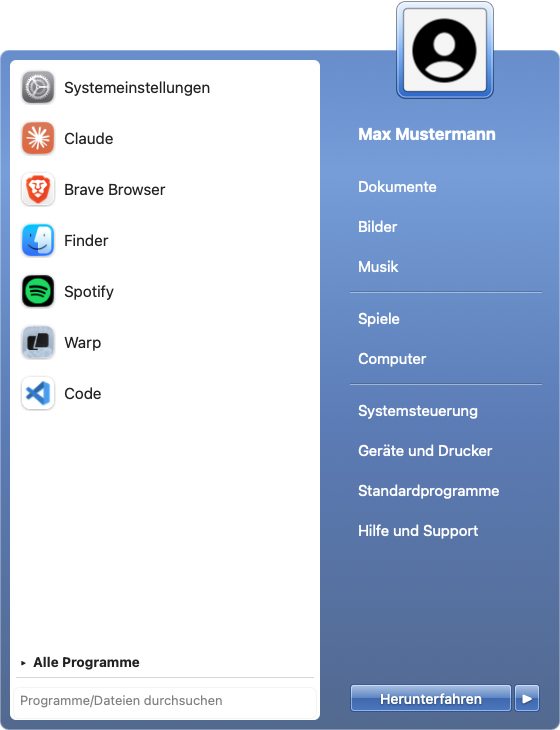
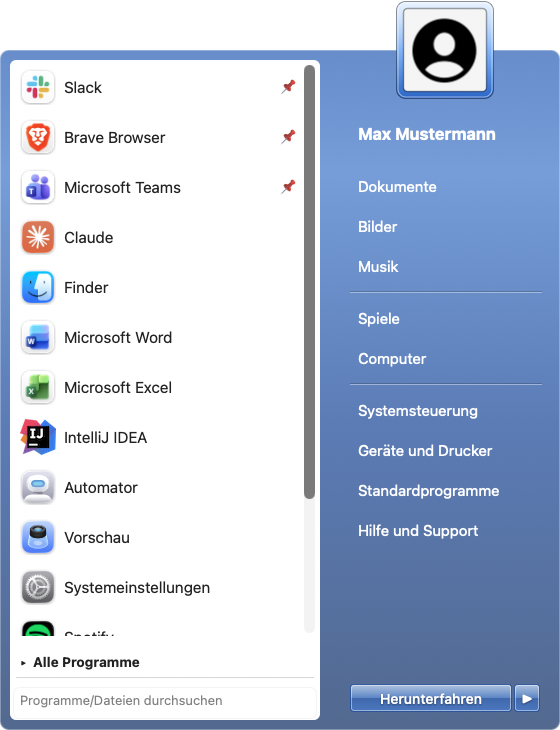
README neu geschrieben mit aktuellen, anonymisierten Screenshots
Vollständige Funktionsübersicht (Taskleiste, Gruppierung, Aero-Peek, Tray,
Jump-Lists, Startmenü-Stile, Einstellungs-Tabs, Hotkeys, Drag&Drop) plus
neue Screenshots: Taskleiste, Startmenü (Akzent + Aero), Einstellfenster.

diff --git a/README.md b/README.md
@@ -2,85 +2,85 @@
 
 Ein nativer **Dock-Ersatz für macOS** im Stil der Windows-7-Taskleiste — geschrieben in
 Swift/AppKit, ohne externe Abhängigkeiten. Aero-Glas-Optik, animierter Start-Orb,
-Zweispalten-Startmenü, Fenstervorschau (Aero Peek), Platz-Reservierung und ein System-Tray.
+Zweispalten-Startmenü, Fenstervorschau (Aero Peek), Fenstergruppierung, Platz-Reservierung,
+System-Tray und vieles mehr.
 
 ![Taskleiste](docs/taskbar.png)
 
 <p align="center">
-  <img src="docs/startmenu.png" alt="Startmenü" width="320">
+  <img src="docs/startmenu.png" alt="Startmenü (Akzentfarbe)" width="300">
+  &nbsp;&nbsp;
+  <img src="docs/startmenu-aero.png" alt="Startmenü (Aero)" width="300">
 </p>
 
-> Die Screenshots sind anonymisiert (Platzhalter-Benutzer „Max Mustermann").
+> Alle Screenshots sind anonymisiert (Platzhalter-Benutzer „Max Mustermann").
 
 ---
 
 ## Funktionen
 
 ### Taskleiste
-- Durchgehende **Aero-Glas-Leiste** am unteren Bildschirmrand (60 px), halbtransparent mit Blur.
-- **Start-Orb** mit eigener Grafik (`orb.png`) und weichen Hover-/Press-Animationen
-  (drei Zustände, sanft übergeblendet).
-- **Taskbar-Buttons** für laufende & angepinnte Apps — nur Icons, mit Aktiv-/Laufend-Anzeige.
-  Klickverhalten wie beim Dock:
+- Durchgehende **Aero-Glas-Leiste** am unteren Rand (60 px, halbtransparent mit Blur).
+- **Start-Orb** mit eigener Grafik und drei animiert übergeblendeten Zuständen:
+  Standard → Hover → *Startmenü geöffnet*. Orb auswählbar (siehe unten).
+- **Taskbar-Buttons** für laufende & angepinnte Apps (nur Icons, 56 px). Klickverhalten
+  wie beim Dock:
   - offene Fenster → in den Vordergrund / ausblenden
   - nur minimierte Fenster → wiederherstellen
   - läuft ohne Fenster → neues Fenster öffnen
   - nicht gestartet → Programm starten
-- **Anheften/Lösen** per Rechtsklick.
-- **System-Tray** rechts: Akku-Anzeige, Lautstärke (Klick → Slider/Mute), Uhr (Klick → Kalender),
-  **WLAN-Symbol** und optionaler **Hardware-Monitor** (CPU/RAM) — beide abschaltbar.
-- **Now-Playing-Spieler** (optional): aktueller Titel aus **Spotify / Apple Music** mit
-  Zurück / Play-Pause / Vor und **Fortschrittsbalken**.
-- **„Desktop anzeigen"**-Streifen ganz rechts.
-- **Drag & Drop**: Taskbar-Icons lassen sich flüssig umsortieren.
-- **Mittelklick** auf ein Icon öffnet ein neues Fenster.
-- **Jump-Lists** per Rechtsklick: Chromium-Profile (Brave/Chrome/…), Finder-Ordner,
-  Terminal (neues Fenster), Mail (neue Nachricht), Spotify/Music (Steuerung), VS Code.
+  - **Mittelklick** → neues Fenster
+- **Einzelklick** funktioniert sofort, auch wenn eine andere App im Vordergrund ist
+  (nicht-aktivierendes Panel — kein „Doppeltipp").
+- **Fenstergruppierung**: Apps mit mehreren Fenstern zeigen gestaffelte Rahmenkanten;
+  Klick öffnet die Fenstervorschau zum Auswählen.
+- **Drag & Drop**: Apps auf die Leiste ziehen → angepinnt.
+- **Umsortieren** der Icons per Drag & Drop.
+- **Aktiv-Highlight** als glasig-durchsichtiges Glas (kein harter Farbton).
 
 ### Startmenü
-- **Zweispalten-Layout** im Win7-Stil: links eine deckend weiße Programmliste, eingefasst von
-  einem akzentfarbenen Rahmen; rechts das akzentfarbene Glas-Panel mit Orten & Energie-Aktionen.
-- **Zuletzt geöffnete Programme** (selbst getrackt) — **anpinnbar** per Rechtsklick.
-- **„Alle Programme"** schaltet auf die vollständige, alphabetische Liste um.
-- **Suche** über Programme **sowie Dateien und Ordner** (via Spotlight).
-- **Profilbild** des angemeldeten Benutzers in einem glasigen Win7-Rahmen, ragt oben heraus.
+- **Zweispalten-Layout**: links weiße Programmliste (mit Akzent-/Aero-Rahmen), rechts das
+  Glas-Panel mit Orten & Energie-Aktionen, oben das überstehende Profilbild im Glasrahmen.
+- **Zwei Stile** wählbar: **Akzentfarbe** oder **Taskbar-Aero** (dunkles Glas) — Button und
+  Avatar-Rahmen passen sich an.
+- **Zuletzt geöffnete** Programme (selbst getrackt), angepinnte zuoberst.
+- **„Alle Programme"** zeigt die vollständige Liste (flüssig, asynchron geladene Icons).
+- **Suche** über Programme **und Dateien/Ordner** (Spotlight); **Enter** startet den ersten Treffer.
+- **Rechtsklick** auf einen Eintrag: an Startmenü/Taskleiste anheften, Desktopverknüpfung erstellen.
 - Energie-Aktionen: **Energie sparen / Neu starten / Abmelden / Herunterfahren** (Splitbutton).
-- Verknüpfungen rechts auf macOS-Pendants gemappt (Dokumente, Bilder, Musik, Computer,
-  Systemeinstellungen, …).
 
 ### Fenstervorschau (Aero Peek)
-- Beim Hovern über ein laufendes Programm erscheint eine Vorschau seiner **Fenster** als
-  Live-Thumbnails (via ScreenCaptureKit).
-- **Minimierte Fenster** werden mit App-Icon-Platzhalter gelistet.
+- Live-Thumbnails der Fenster beim Hovern (ScreenCaptureKit), inkl. **minimierter** Fenster.
 - **×-Knopf** zum Schließen eines Fensters; Klick auf eine Vorschau holt es nach vorn.
 
+### System-Tray
+Mit einheitlichem Abstand: **Now-Playing** (Spotify/Apple Music mit Fortschritt),
+**Hardware-Monitor** (CPU/RAM), **WLAN**, **Akku**, **Lautstärke** (Slider), **Uhr**
+(Klick → Kalender). Now-Playing, WLAN und Hardware-Monitor sind einzeln abschaltbar.
+
 ### Fensterverwaltung
-- **Platz-Reservierung**: Fenster, die in den Leistenbereich ragen, werden über die Leiste
-  geklemmt (Bedienungshilfen-API).
-- **Vollbild**: Im echten Vollbildmodus blendet sich die Leiste automatisch aus.
-- **macOS-Dock ausblenden** per Rechtsklick auf den Orb.
+- **Platz-Reservierung**: hält Fenster über der Leiste (Bedienungshilfen-API).
+- **Vollbild**: Leiste blendet sich automatisch aus, wenn eine App im Vollbild ist.
+- **macOS-Dock ausblenden** per Einstellung.
+
+### Jump-Lists (Rechtsklick auf ein Taskbar-Icon)
+- **Browser** (Brave/Chrome/Edge/Chromium/Vivaldi): Profile auswählen
+- **Finder**: persönliche Ordner; **„Alle Fenster schließen"** (Finder wird nie beendet)
+- **Terminal**: neues Fenster · **Mail**: neue Nachricht · **Spotify/Music**: Steuerung · **VS Code**: neues Fenster
 
 ### Einstellungen
-Rechtsklick auf den Orb → **Einstellungen…** öffnet ein zentrales Fenster mit allen Optionen:
 
-<p align="center">
-  <img src="docs/settings.png" alt="Einstellungen" width="360">
-</p>
+<p align="center"><img src="docs/settings.png" alt="Einstellungen" width="430"></p>
 
-- macOS-Dock ausblenden
-- Fensterbereich reservieren (Bedienungshilfen)
-- Finder-Klick öffnet immer ein neues Fenster
-- Now-Playing-Spieler anzeigen
-- WLAN-Symbol anzeigen
-- Hardware-Monitor (CPU/RAM) anzeigen
-- Beim Anmelden automatisch starten (`SMAppService`)
+Rechtsklick auf den Orb → **Einstellungen…**, in Tabs gegliedert:
+- **Allgemein**: Dock ausblenden, Fensterbereich reservieren, Autostart (`SMAppService`)
+- **Darstellung**: Start-Symbol (Orb-Auswahl + eigene laden), Startmenü-Stil, Icon-Rahmen über volle Höhe
+- **Tray**: Now-Playing, WLAN, Hardware-Monitor
+- **Finder**: Klick öffnet neues Fenster, Desktopfenster ignorieren
 
-### Sonstiges
-- Nutzt die in macOS gewählte **Akzentfarbe** durchgängig (Highlights, Startmenü, Orb-Glow).
-- **Globaler Hotkey**: **fn (Globe) + Control** öffnet/schließt das Startmenü.
-- **Ctrl + 1…9** startet/aktiviert die n-te angepinnte App (Win-Tasten-Stil).
-- **Enter** im Startmenü startet den ersten Suchtreffer.
-- Reagiert zusätzlich auf eine Distributed Notification (`de.batix.win7taskbar.toggleStart`).
+### Tastatur
+- **fn (Globe) + Control** → Startmenü öffnen/schließen
+- **Ctrl + 1…9** → n-te angepinnte App starten/aktivieren
 
 ---
 
@@ -89,41 +89,40 @@ Rechtsklick auf den Orb → **Einstellungen…** öffnet ein zentrales Fenster m
 Voraussetzungen: **macOS 14+**, Xcode-Toolchain (Swift 5.9+).
 
 ```bash
-# 1) (Einmalig, empfohlen) Stabile Signatur, damit erteilte Berechtigungen Rebuilds überleben.
-#    Erzeugt ein selbst-signiertes Zertifikat (einmalige Passwort-Abfrage).
+# (Einmalig, empfohlen) stabile Signatur → erteilte Berechtigungen überleben Rebuilds:
 ./setup-signing.sh
 
-# 2) Bauen und starten
 ./build.sh
 open Win7Taskbar.app
 ```
 
-Ohne `setup-signing.sh` wird die App ad-hoc signiert — funktioniert ebenfalls, allerdings
-müssen die Berechtigungen nach jedem Rebuild neu erteilt werden.
+Ohne `setup-signing.sh` wird ad-hoc signiert (funktioniert ebenfalls, Berechtigungen müssen
+dann nach jedem Rebuild neu erteilt werden).
 
-### Eigenes Orb-Bild
-Lege ein `orb.png` ins Projektverzeichnis (drei Zustände vertikal gestapelt: normal / Hover /
-gedrückt). `build.sh` bindet es automatisch ein.
+### Eigene Orbs
+Orbs liegen in `orbs/` (Windows 7 + Apple) und werden eingebunden. Zur Laufzeit durchsucht die
+App zusätzlich `~/Library/Application Support/Win7Taskbar/orbs/` — dort abgelegte PNGs
+erscheinen in der Auswahl (oder per „Orb hinzufügen…" im Einstellfenster). Ein Orb-PNG hält die
+drei Zustände vertikal gestapelt (normal / Hover / geöffnet).
 
 ---
 
 ## Berechtigungen
 
-Beim ersten Start fragt macOS nach Berechtigungen — bitte unter
-*Systemeinstellungen → Datenschutz & Sicherheit* aktivieren:
-
 | Berechtigung | Wofür |
 |---|---|
 | **Bildschirmaufnahme** | Vorschaubilder der Fenster (Aero Peek) |
-| **Bedienungshilfen** | Platz-Reservierung, minimierte Fenster, Fenster schließen/wiederherstellen |
-| **Automatisierung** (Finder/System Events/Spotify/Music) | Energie-Aktionen, „neues Finder-Fenster", Now-Playing-Steuerung |
+| **Bedienungshilfen** | Platz-Reservierung, minimierte Fenster, Fenster schließen/wiederherstellen, Hotkeys |
+| **Automatisierung** (Finder/System Events/Spotify/Music) | Energie-Aktionen, Finder-Fenster, Now-Playing |
+
+Alle unter *Systemeinstellungen → Datenschutz & Sicherheit* aktivieren.
 
 ---
 
 ## Autostart
 
-Als Anmeldeobjekt einrichten: *Systemeinstellungen → Allgemein → Anmeldeobjekte* →
-`Win7Taskbar.app` hinzufügen. (Lässt sich dort jederzeit wieder entfernen.)
+Im Einstellfenster (*Allgemein → Beim Anmelden automatisch starten*) oder unter
+*Systemeinstellungen → Allgemein → Anmeldeobjekte*.
 
 ---
 
@@ -131,45 +130,36 @@ Als Anmeldeobjekt einrichten: *Systemeinstellungen → Allgemein → Anmeldeobje
 
 ```
 Sources/Win7Taskbar/
-  main.swift                  Einstiegspunkt (Agent-App, kein Dock-Icon)
-  AppDelegate.swift           Erzeugt die Leiste, reagiert auf Bildschirmänderungen
-  TaskbarController.swift      Fenster, Layout, laufende Apps, Tray, Vollbild-Logik
-  Theme.swift                 Maße & Farben (inkl. Akzentfarben-Helfer)
-  GlassBackgroundView.swift   Aero-Glas-Hintergrund der Leiste
-  StartOrbButton.swift        Animierter Start-Orb
-  TaskbarButton.swift         Einzelner Taskbar-Button (Icon, Zustände)
-  TaskbarItem.swift           Modell für einen Eintrag
-  StartMenu.swift             Komplettes Startmenü (Layout, Suche, Avatar, Buttons)
-  AppScanner.swift            Findet installierte Programme
-  RecentsStore.swift          Zuletzt geöffnet + angepinnte Programme
-  PinStore.swift              Angepinnte Taskbar-Apps
-  WindowPreview.swift         Fensterliste + Thumbnails (ScreenCaptureKit/AX)
-  WindowPreviewController.swift  Vorschau-Panel (Aero Peek)
-  WindowSpaceReserver.swift   Platz-Reservierung über Bedienungshilfen
-  SystemInfo.swift            Akku (IOKit) & Lautstärke
-  SystemStats.swift           CPU-/RAM-Auslastung (Mach-APIs)
-  TrayWidgets.swift           WLAN-Symbol & Hardware-Monitor
-  JumpList.swift              App-spezifische Rechtsklick-Aktionen
-  NowPlaying.swift            Now-Playing-Abfrage/-Steuerung (Spotify/Music)
-  NowPlayingView.swift        Now-Playing-Widget in der Taskleiste
-  SettingsWindow.swift        Zentrales Einstellfenster
-  DockHelper.swift            Dock ausblenden/einblenden
+  main.swift / AppDelegate.swift     Einstieg (Agent-App), Erzeugung pro Bildschirm
+  TaskbarController.swift            Fenster, Layout, laufende Apps, Tray, Vollbild, Hotkeys, Drag&Drop
+  Theme.swift                        Maße & Farben (inkl. Akzentfarben-Helfer)
+  GlassBackgroundView.swift          Aero-Glas-Hintergrund + Drop-Ziel
+  StartOrbButton.swift / OrbCatalog  Animierter Orb + Orb-Verwaltung
+  TaskbarButton.swift / TaskbarItem  Taskbar-Button (Zustände, Gruppierung) + Modell
+  StartMenu.swift                    Startmenü (Layout, Suche, Avatar, Stile, Buttons)
+  AppScanner / RecentsStore / PinStore   Programme finden, zuletzt geöffnet, Pins
+  WindowPreview(.Controller).swift   Fensterliste + Thumbnails (ScreenCaptureKit/AX) + Aero-Peek-Panel
+  WindowSpaceReserver.swift          Platz-Reservierung (Bedienungshilfen)
+  SystemInfo / SystemStats / TrayWidgets  Akku, Lautstärke, CPU/RAM, WLAN-/Monitor-Widgets
+  NowPlaying(.View).swift            Spotify/Music-Abfrage + Widget
+  JumpList.swift                     App-spezifische Rechtsklick-Aktionen
+  SettingsWindow.swift               Einstellfenster (Tabs)
+  DockHelper.swift                   Dock ausblenden/einblenden
 ```
 
 ---
 
 ## Bekannte Grenzen
 
-- Eine Drittanbieter-App kann **keinen** echten OS-Slot wie das Dock reservieren. Die
-  Reservierung hält Fenster per Bedienungshilfen oberhalb der Leiste; neu geöffnete Fenster
-  können kurz in den Bereich ragen, bis sie hochgeschoben werden.
+- Eine Drittanbieter-App kann **keinen** echten OS-Slot wie das Dock reservieren; die
+  Reservierung hält Fenster per Bedienungshilfen oberhalb der Leiste.
 - Das macOS-Dock lässt sich nicht vollständig beenden — die App versetzt es in den Auto-Hide.
-- Fremde Menüleisten-Symbole anderer Apps lassen sich nicht in den Tray holen.
+- Fremde Menüleisten-Symbole anderer Apps lassen sich nicht in den Tray holen; systemweite
+  Now-Playing-Infos sind für Fremd-Apps gesperrt, daher die direkte Spotify/Music-Abfrage.
 
 ---
 
 ## Lizenz
 
 Privates Projekt. Windows 7 und das Windows-Logo sind Marken der Microsoft Corporation —
-dieses Projekt ist ein nicht-kommerzieller, optischer Nachbau und steht in keiner Verbindung
-zu Microsoft.
+dieses Projekt ist ein nicht-kommerzieller, optischer Nachbau ohne Verbindung zu Microsoft.
